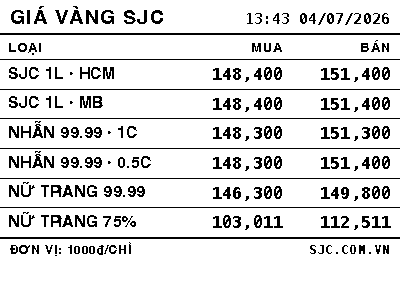
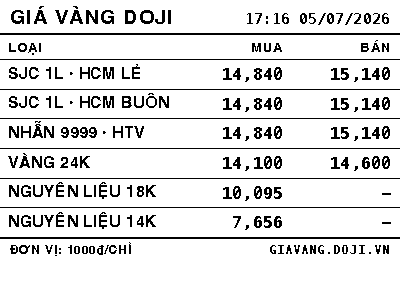
fix(trmnl/gold-vn): switch source SJC → DOJI (bypass Cloudflare)
SJC (sjc.com.vn) is fully behind Cloudflare bot mitigation. From the
Terminus VPS (Vultr IP 45.76.179.84), even with User-Agent set to
'Mozilla/5.0', Cloudflare returns HTTP 403 + a 'Just a moment...' HTML
interstitial. CF's decision uses IP reputation + JA3 TLS fingerprint,
not just UA. Untunable from headers alone.

DOJI (giavang.doji.vn/api/prices) — old-school ASP.NET endpoint,
returns text/xml, no CF, accepts any non-bot UA. Works from VPS.

Changes:
- settings.yml: polling_url → DOJI endpoint. Kept minimal
  User-Agent: Mozilla/5.0 header for defensive.
- full.liquid: rewritten to string-parse XML (Liquid has no XML
  parser). Splits body into <DGPlist> and <JewelryList> blocks
  first to disambiguate DOJI's mixed units (same Name='DOJI HCM lẻ'
  appears as nghìn/chỉ in DGPlist and nghìn/lượng in JewelryList).
- 6 rows all in nghìn₫/chỉ:
    SJC 1L HCM lẻ (14,840 / 15,140)
    SJC 1L HCM buôn (14,840 / 15,140)
    Nhẫn 9999 Hưng Thịnh Vượng (14,840 / 15,140)
    Vàng 24K (14,100 / 14,600)
    Nguyên liệu 18K (10,095 / —)
    Nguyên liệu 14K (7,656 / —)
- Timestamp from <IGPList><DateTime> (freshest DOJI publishes).
- README.md rewritten — documented gotchas #12 (mixed units),
  #13 (Liquid+XML string parse), #14 (CF IP rep blocks VPS).
- preview/full.png regenerated with real DOJI XML data.

Local render sanity-check with real DOJI response at 17:16 05/07/2026:
  matches expected chỉ values across all 6 rows.
[…]

diff --git a/firmware-extras/trmnl-gold-vn/README.md b/firmware-extras/trmnl-gold-vn/README.md
@@ -1,4 +1,170 @@
-# TRMNL Vàng SJC Việt Nam — sjc.com.vn (RLCD 1-bit friendly)
+# TRMNL Vàng DOJI Việt Nam — giavang.doji.vn (RLCD 1-bit friendly)
+
+Giá vàng miếng SJC / nhẫn 9999 / nữ trang / nguyên liệu lấy trực
+tiếp từ endpoint XML công khai của DOJI (không cần API key, không qua
+Cloudflare). Hiển thị trên Waveshare ESP32-S3-RLCD-4.2 400×300 1-bit.
+
+## Layout (400×300)
+
+```
+┌───────────────────────────────────────┐
+│ GIÁ VÀNG DOJI     17:16 05/07/2026 │  ← IGPList DateTime
+├───────────────────────────────────────┤
+│ LOẠI              MUA         BÁN │
+│ SJC 1L · HCM LẸ    14,840   15,140 │
+│ SJC 1L · HCM BUÔN  14,840   15,140 │
+│ NHẪN 9999 · HTV    14,840   15,140 │
+│ VÀNG 24K          14,100   14,600 │
+│ NGUYÊN LIỆU 18K   10,095       —   │
+│ NGUYÊN LIỆU 14K    7,656       —   │
+├───────────────────────────────────────┤
+│ Đơn vị: 1000₫/chỉ      GIAVANG.DOJI.VN │
+└───────────────────────────────────────┘
+```
+
+## Tại sao đổi từ SJC → DOJI
+
+**SJC (`sjc.com.vn`) ở sau Cloudflare bot management.** Từ VPS Vultr
+(`45.76.179.84`), Cloudflare trả về HTTP 403 với header `cf-mitigated:
+challenge` và body là trang challenge HTML (`<title>Just a moment...</title>`)
+cho mọi request, kể cả đã set `User-Agent: Mozilla/5.0`. Cloudflare
+decision dựa vào **IP reputation** + JA3 TLS fingerprint của Terminus's
+Faraday HTTP client, không chỉ UA. Từ IP nhà (residential ISP) thì
+`Mozilla/5.0` được chấp nhận — không thể fake từ VPS.
+
+**DOJI (`giavang.doji.vn`)** — endpoint cũ, không CF, chấp nhận mọi UA
+không phải bot signature. XML public, HTTP 200 từ VPS.
+
+## Source
+
+- **Endpoint**: `https://giavang.doji.vn/api/prices`
+- **Method**: GET
+- **Headers**: `User-Agent: Mozilla/5.0` (để chắc không bị 403 ở bất kỳ
+layer nào)
+- **Response**: `text/xml` — Terminus lưu vào `source_1.body` dạng string
+- **Interval**: 30 phút
+
+Structure:
+
+```xml
+<GoldList>
+  <DGPlist>
+    <DateTime>07:00 01/01/1970</DateTime>      <!-- ⚠ thường stale -->
+    <Row Name='DOJI HN lẻ' Sell='151,400' Buy='148,400' />   (nghìn/lượng)
+    <Row Name='DOJI HCM lẻ' Sell='15,140' Buy='14,840' />   (nghìn/chỉ)
+    <Row Name='DOJI HCM buôn' Sell='15,140' Buy='14,840' />
+    ...
+  </DGPlist>
+  <IGPList>
+    <DateTime>17:16 05/07/2026</DateTime>       <!-- ✅ timestamp fresh -->
+    <Row Name='USD/VND' Sell='22,611' Buy='22,517' />
+  </IGPList>
+  <JewelryList>
+    <Row Name='Vàng 24k (nghìn/chỉ)' Sell='14,600' Buy='14,100' />
+    <Row Name='Giá Nguyên Liệu 18K' Sell='-' Buy='10,095' />
+    <Row Name='Nhẫn Tròn 9999 Hưng Thịnh Vượng' Sell='15,140' Buy='14,840' />
+    ...
+  </JewelryList>
+</GoldList>
+```
+
+## Gotcha #12 — DOJI XML mixes units in JewelryList
+
+DOJI dùng **hai unit khác nhau** trong cùng file XML:
+
+- `DOJI HN lẻ`, Âu Vàng Phúc Long → **nghìn₫/lượng** (ví dụ 148,400)
+- `DOJI HCM lẻ`, Nhẫn 9999, 24K, 18K → **nghìn₫/chỉ** (ví dụ 14,840)
+- Tệ hơn: `DOJI HCM lẻ` xuất hiện cả trong `<DGPlist>` (chỉ: 14,840)
+  VÀ `<JewelryList>` (lượng: 151,400).
+
+**Fix trong template**: split `body` thành `dgp` (DGPlist block) và `jl`
+(JewelryList block) trước, rồi mới extract row. Các row miếng lấy từ
+`dgp` (đảm bảo chỉ), các row nhẫn/24K/18K/14K lấy từ `jl`.
+
+## Gotcha #13 — Liquid không parse XML, phải string-split
+
+Terminus parse JSON tự động vảo `source_1.<field>`. Với XML,
+`source_1.body` = raw text. Phải dùng `| split` từng bước:
+
+```liquid
+{% assign _row = jl | split: "Name='Vàng 24k (nghìn/chỉ)'" | last
+                    | split: "/>" | first %}
+{% assign sell = _row | split: "Sell='" | last | split: "'" | first %}
+{% assign buy  = _row | split: "Buy='"  | last | split: "'" | first %}
+```
+
+Để ý:
+
+- `| last` sau `split` = đoạn text SAU dấu phân cách cuối cùng.
+- `| first` = đoạn text TRƯỚC dấu phân cách đầu tiên.
+- Nếu Name không tồn tại, `| last` trả về toàn bộ string ban đầu —
+  KHÔNG raise. Sau đó `| split: "/>"` vẫn chạy, kết quả rubbish. Cẩn
+  thận khi thay đổi số row.
+
+## Timestamp
+
+DOJI đặt `<DateTime>07:00 01/01/1970</DateTime>` cho `DGPlist` và
+`JewelryList` (tức tự nhận là "never updated"). Chỉ `<IGPList>` có
+timestamp thật (cập nhật USD/VND). Template hiển thị `IGPList
+DateTime` — đủ tươi để xem lần cuối DOJI online là khi nào.
+
+Giá vàng VN chủ yếu ăn theo SJC (SJC cập nhật được vài lần/ngày), nên
+khoảng trễ 30-60 phút chấp nhận được cho một display panel.
+
+## RLCD typography rules
+
+Ap dụng như 4 plugin khác — body 16-17px, `Helvetica`/`Menlo`, pure
+`#000`/`#fff`, `1-2px solid #000` borders, `font-weight: 700`,
+`-webkit-font-smoothing: none`.
+
+## Build
+
+```
+ruby firmware-extras/trmnl-gold-vn/build_zip.rb
+```
+
+→ `dist/gold_vn.zip` (~2.8 KB) chứa `configuration.yml` +
+`template.html.liquid`.
+
+## Upload
+
+1. Xóa ext 14 cũ (nếu đang giữ URL SJC cũ) — `/extensions/14` → Delete.
+2. `/extensions` → Import → chọn `dist/gold_vn.zip`.
+3. Mở ext mới → **Kind = Poll**, **Mode = Text**, bind **Model 47**
+   (Waveshare RLCD) → Save.
+4. Sau ~30 phút (hoặc bấm "Rebuild") → screen render.
+
+## Rows mở rộng
+
+Chỉnh 6 hàng trong `liquid/full.liquid` — các biến `_r1..._r6`. Row hiển
+có sẵn:
+
+| # | XML source                                  | Field split key                                |
+|---|---------------------------------------------|------------------------------------------------|
+| 1 | `<DGPlist>` DOJI HCM lẻ                     | `dgp → Name='DOJI HCM lẻ'`                     |
+| 2 | `<DGPlist>` DOJI HCM buôn                   | `dgp → Name='DOJI HCM buôn'`                   |
+| 3 | `<JewelryList>` Nhẫn Tròn 9999 Hưng Thịnh   | `jl → Name='Nhẫn Tròn 9999 Hưng Thịnh Vượng'` |
+| 4 | `<JewelryList>` Vàng 24k                    | `jl → Name='Vàng 24k (nghìn/chỉ)'`             |
+| 5 | `<JewelryList>` NL 18K (buy only)           | `jl → Name='Giá Nguyên Liệu 18K'`               |
+| 6 | `<JewelryList>` NL 14K (buy only)           | `jl → Name='Giá Nguyên Liệu 14K'`               |
+
+Rồng thêm có `Giá Nguyên Liệu 16K` (8,808), `15K` (7,995), `10K` (5,556),
+USD/VND (từ `<IGPList>`).
+
+## Gotchas kế thừa
+
+- **#5** Terminus screen enum: `screen.kind == "user_bmp"`, cần cast enum
+  ở Postgres.
+- **#7** Liquid so sánh số dạng chuỗi: dùng `{{ x | plus: 0.0 }}`.
+- **#8** Form PUT wipes bindings — luôn resend `model_ids[]=47`.
+- **#9** Xóa exchange record wipe polling.
+- **#10** POST `/extensions/N/build` dedupe silently.
+- **#11** Server-side POST/PUT stuck vì Sidekiq retry loop — cần
+  `docker restart terminus-web-1`.
+- **#12** DOJI XML mixed units (xem trên).
+- **#13** Liquid + XML = string-split thủ công.
+- **#14** Cloudflare IP reputation chặn Terminus từ VPS (không thể fix bằng
+  UA — phải đổi nguồn).
 
 Giá vàng SJC / nhẫn / nữ trang lấy trực tiếp từ endpoint công khai của
 SJC (không cần API key). Hiển thị trên Waveshare ESP32-S3-RLCD-4.2
@@ -106,6 +272,7 @@ an HTML challenge page). Terminus's Faraday-based poller trips this.
 `exchanges[0].headers` in `configuration.yml`.
 
 Empirically tested UAs that pass:
+
 | UA (len) | Result |
 | --- | --- |
 | _(default curl/8.x)_ | 403 (blocked) |